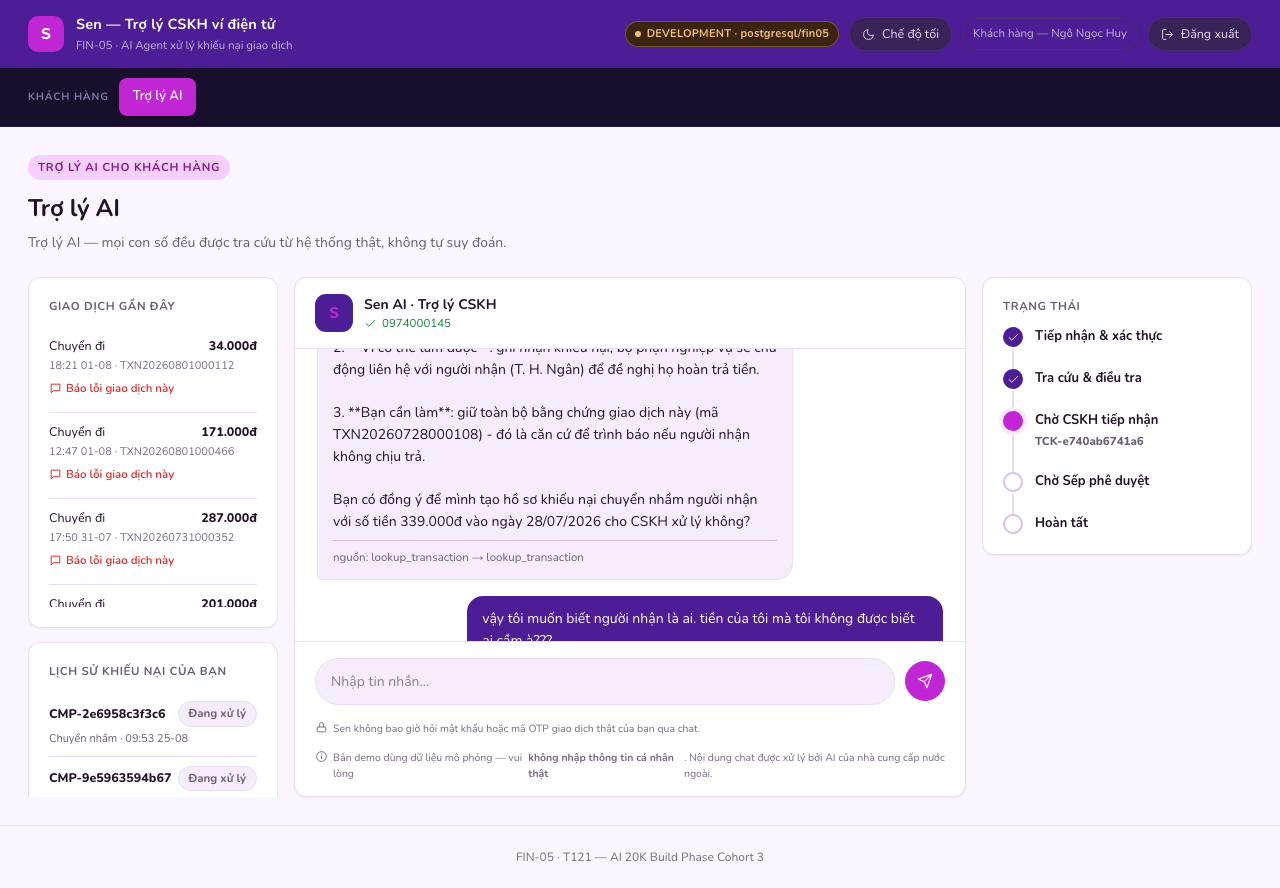
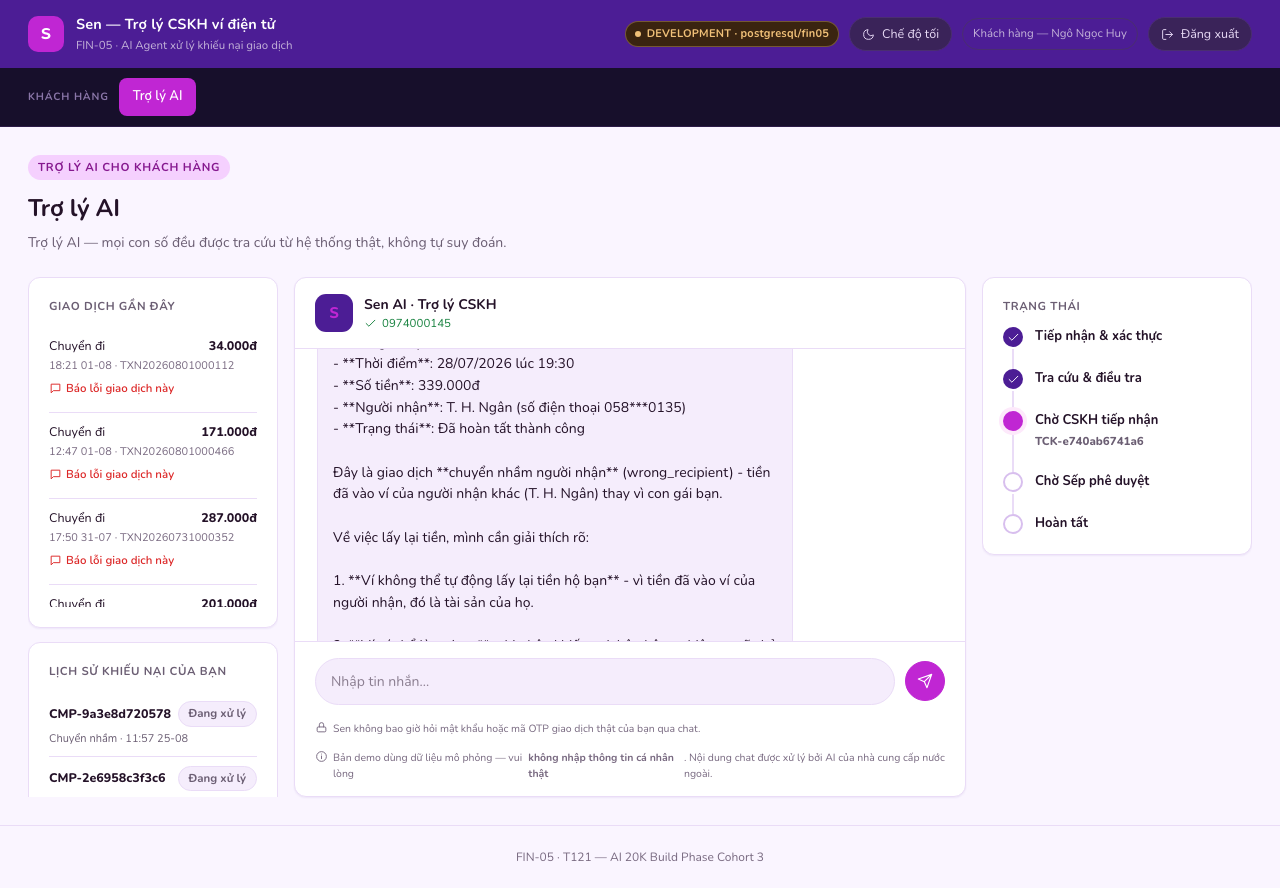
fix(security): gỡ 6 tệp OTP đã render khỏi git, chặn nguồn tái sinh
6 tệp eval/results/render_that_* chứa mã OTP phiên đã render (mô phỏng,
đã hết hạn, rủi ro thấp — xem docs/security/2026-09-01-ma-otp-da-render-
trong-git-quet-eval-e2e.md). Vá đủ hai bước: git rm --cached (đã tracked
từ c0b8615/6c402e1, chỉ .gitignore không chặn gì) rồi mới .gitignore.

Chặn nguồn tái sinh: kich-ban-chuyen-gia-render-that.spec.ts chạy mặc
định trước đây (testIgnore chỉ loại live-chat.spec.ts), và CI nightly
chạy nó hằng đêm — nay đã thêm vào testIgnore.

4 tệp M cũ (1a_reply_log.jsonl + 3 bản _SAU_VA đã tracked lại qua lệnh
rm --cached ở trên) giữ nguyên trên đĩa, không checkout/clean, theo
quyết định PO 01/09 (không viết lại lịch sử).

Việc của QA/QC (p-226-77), Làn C, đợt 2 tiếng trước hạn 24:00 — Lead
(p-226-92) xác nhận độc lập cả hai vế đỏ/xanh trước khi commit.

Changed region(s): [[0.25, 0.3953, 0.75, 0.7297], [0.0625, 0.7905, 0.125, 0.8209], [0.0938, 0.8514, 0.125, 0.8818]]

diff --git a/frontend/playwright.config.ts b/frontend/playwright.config.ts
@@ -27,7 +27,14 @@ export default defineConfig({
   // playwright.livechat.config.ts) — cổng 3000 trần (next dev/start) ở đây
   // KHÔNG proxy được /ws/live-chat, chạy nhầm ở config này sẽ luôn fail.
   // Loại trừ tường minh thay vì để 2 config vô tình đụng cùng 1 file test.
-  testIgnore: /live-chat\.spec\.ts/,
+  //
+  // kich-ban-chuyen-gia-render-that.spec.ts THÊM 01/09: spec này ghi OTP
+  // thật (demo, sinh mới mỗi lần chạy) thẳng vào eval/results/render_that_*
+  // — trước bản vá này nó chạy MẶC ĐỊNH, kể cả nightly CI (job
+  // e2e-playwright-nightly gọi `playwright test` không tham số), nên đêm
+  // nào cũng sinh một hiện vật OTP mới sẵn sàng bị `git add` nhầm. Xem
+  // docs/security/2026-09-01-ma-otp-da-render-trong-git-quet-eval-e2e.md.
+  testIgnore: /live-chat\.spec\.ts|kich-ban-chuyen-gia-render-that\.spec\.ts/,
   fullyParallel: false, // dùng chung 1 user/OTP state giữa các case trong 1 file — tránh đụng độ AuthSession
   // ĐÍNH CHÍNH ghi chú cũ ở đây (từng nói "chưa xác định chắc rễ, không phải
   // nghẽn khoá SQLite, đã verify bằng concurrent-load test") — SAI, xác nhận
